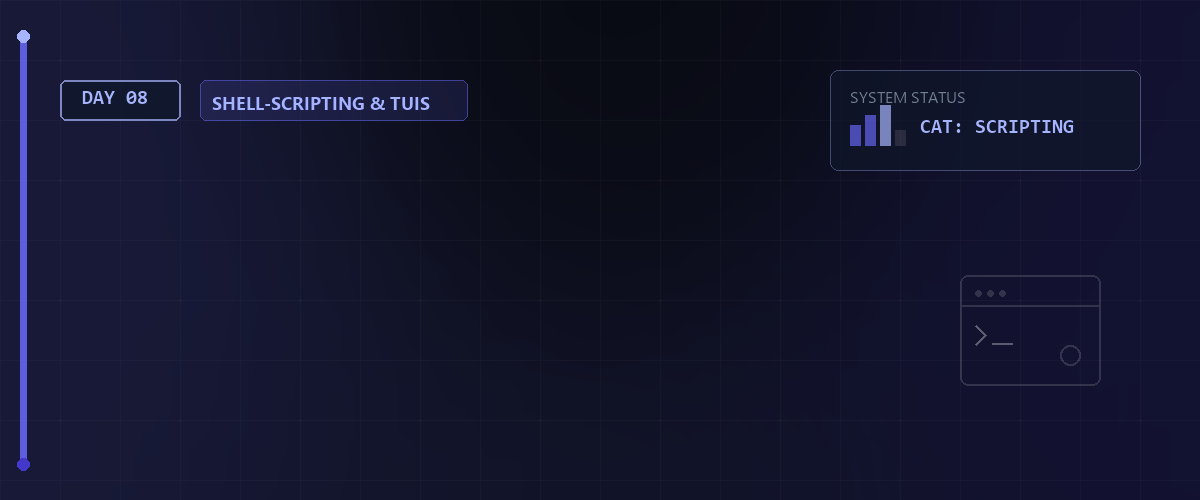
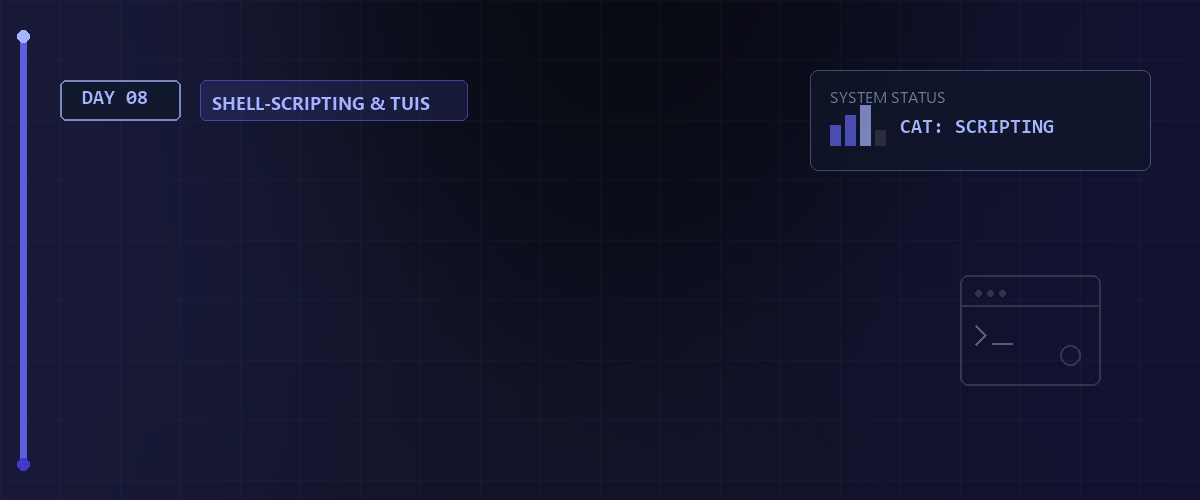
refactor(Day_08): move environment variables history to Day 8 assets

Changed region(s): [[0.6783, 0.18, 0.8942, 0.3]]

diff --git a/Day_08/README.md b/Day_08/README.md
@@ -190,6 +190,12 @@ Hier sind typische Fragen rund um Shell Scripting:
 
 </details>
 
+## 📚 Ressourcen & Dokumente
+Im [Assets](./assets)-Verzeichnis finden Sie die Unterlagen zu diesem Tag:
+
+- [Praxis-Skript (Umask Check) (SH)](./assets/umask_script.sh)
+- [Praxis-Historie (Variablen, Export & Funktionen) (TXT)](./assets/history-function-set-env-202605291048)
+
 ---
 
 *Letztes Update: 26. Mai 2026 für den Linux-Essentials Kurs.*
